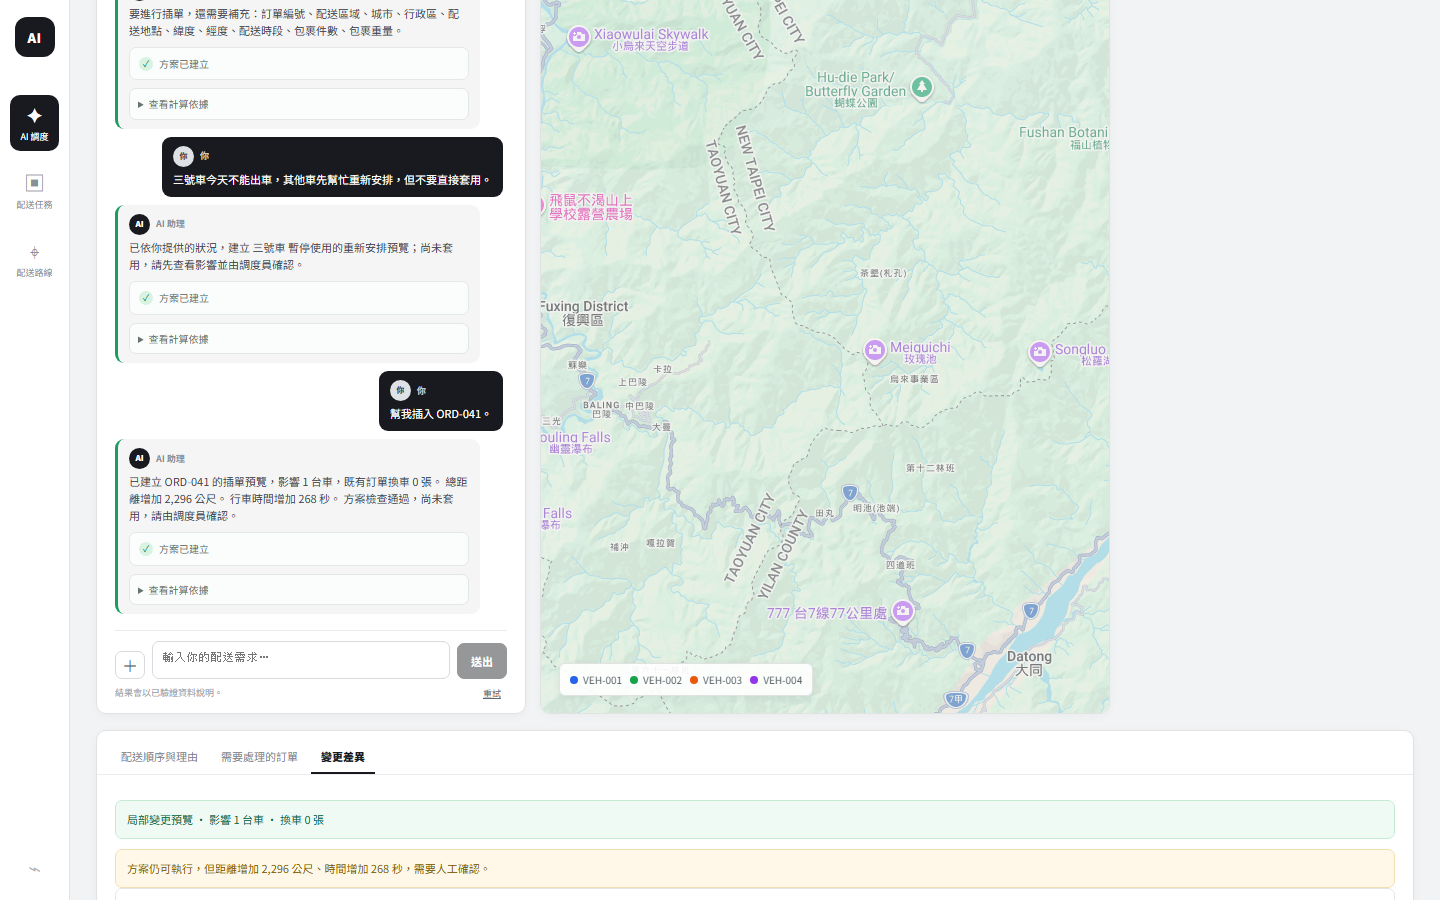
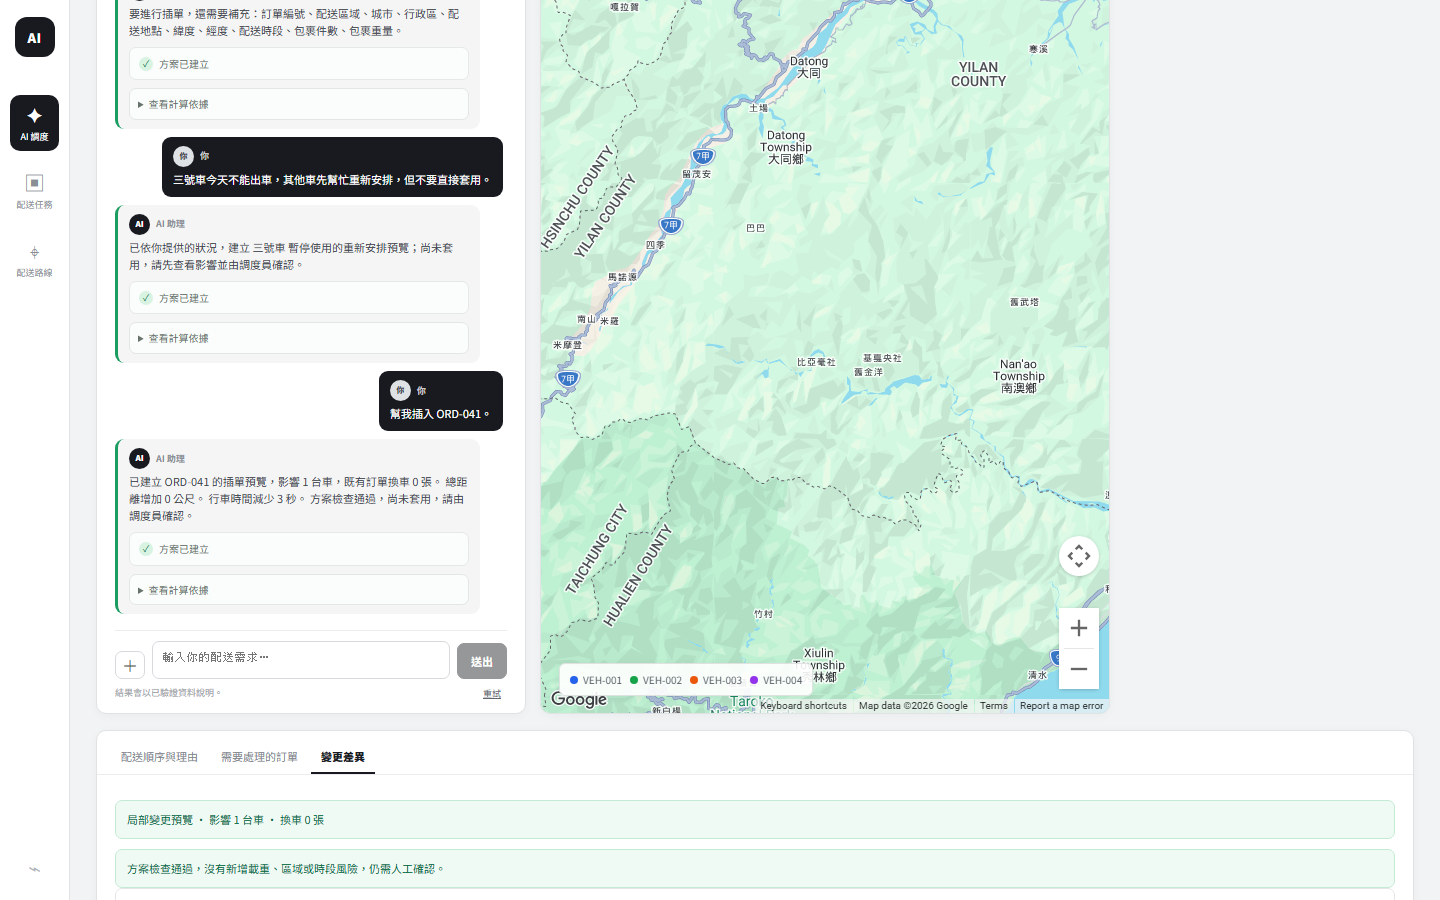
docs: record stable urgent-order public acceptance

diff --git a/docs/project-status.md b/docs/project-status.md
@@ -92,7 +92,7 @@
 - 從 Render 公開空白首頁以單一 Chromium 會話完成完整線性 Demo，涵蓋 Excel、40／40、4／4、Google 道路地圖、Agent 工具證據、車輛事件、真實拖拉換車、取消、ORD-041、人工確認、三策略、延遲與版本；結果 `1 passed`，正式派車請求 `0`。
 - 公開 Agent 現場題目均實際呼叫 `/api/v1/agent/chat`；重要問題逐題驗證 `RunResult` 與預期 strict tool。Prompt injection 收到明確 `PROMPT_INJECTION_BLOCKED`，沒有未處理 Console／page error。
 - 視覺稽核發現車輛停用與延遲回答可能顯示 JSON／英文內部欄位；已 regression-first 修正為繁體中文白話摘要，並讓 ORD-041 回答直接顯示受影響車輛、換車數、距離、時間與方案檢查。
-- Backend 全量 `218 passed、28 skipped`；112 案例 corpus 實際 `115 passed`；24 個 Live Runner `24 passed`；Ruff／mypy 通過。
+- Backend 全量 `219 passed、28 skipped`；112 案例 corpus 實際 `115 passed`；24 個 Live Runner `24 passed`；Ruff／mypy 通過。
 - Frontend TypeScript、ESLint、Vitest `20 passed`、production build 通過；本機 Playwright core `2 passed`、隨機資料／純附件 `2 passed`，公開線性 E2E `1 passed`。
 - Secret scan：高信心 pattern `0`、追蹤敏感路徑 `0`、GitHub Actions `0`；`.env` 與 `frontend/.env.local` 均被 Git 排除。
 
@@ -194,10 +194,10 @@
 
 ## LAST VALIDATION
 
-- 2026-09-06 Commit `550f73678f8772a9d1f96c03cd4d66a2870f3664` 公開 Render 線性 E2E：`1 passed`（4.6 分鐘）；同一瀏覽器會話由空白首頁走完整流程，15 張 1440×900 截圖存於 `docs/screenshots/public-final/`，未處理 Console／page error `0`，正式派車 requests `0`。
-- 公開正式方案：40／40 張、4／4 台、365 kg、Google 即時 Matrix→OR-Tools、方案檢查通過；本次畫面載重為 VEH-001 `106/120 kg`、VEH-002 `93/100 kg`、VEH-003 `160/160 kg`、VEH-004 `6/110 kg`。
-- 公開 ORD-041：40→41 張、365→367 kg、影響 1 台車、既有訂單換車 0 張、距離 `+2,296 m`、時間 `+268 s`、方案檢查通過；人工確認後建立新版本。
-- 最新本機：Backend `218 passed、28 skipped`；deterministic corpus `115 passed`；Live Runner `24 passed`；Ruff、mypy、TypeScript、ESLint、Vitest `20 passed`、Vite build 均通過。
+- 2026-09-06 Commit `7769a977e0894445c4a1551e900a235c09eb8c0b` 公開 Render 線性 E2E：`1 passed`（5.1 分鐘）；同一瀏覽器會話由空白首頁走完整流程，15 張 1440×900 截圖存於 `docs/screenshots/public-final/`，未處理 Console／page error `0`，正式派車 requests `0`。
+- 公開正式方案：40／40 張、4／4 台、365 kg、Google 即時 Matrix→OR-Tools、方案檢查通過；本次畫面載重為 VEH-001 `100/120 kg`、VEH-002 `99/100 kg`、VEH-003 `160/160 kg`、VEH-004 `6/110 kg`。
+- 公開 ORD-041：40→41 張、365→367 kg、影響 1 台車、既有訂單換車 0 張、距離 `+0 m`、服務時間 `+180 s`、方案檢查通過；人工確認後建立新版本。固定案例與既有合成站點同位置，以避免即時交通變化迫使全面重排；任意結構化插單仍使用輸入位置。
+- 最新本機：Backend `219 passed、28 skipped`；deterministic corpus `115 passed`；Live Runner `24 passed`；Ruff、mypy、TypeScript、ESLint、Vitest `20 passed`、Vite build 均通過。
 - Playwright：基礎回歸 `2 passed`；固定 seed 隨機資料／純附件 `2 passed`（明確 `SIMULATED`）；公開完整 Google／OpenAI 流程 `1 passed`。本機舊 Live gate 因 Server Key 僅允許 Render 而分類 `API_KEY_RESTRICTED`，不影響已通過的公開 Live 驗收。
 
 - 2026-09-06 本機最終閘門：`pytest 216 passed、28 skipped`；28 個 skipped 全是明確 opt-in 外部 gates，其中 24 個 OpenAI Runner corpus 已另行以 Live 模式得到 `24 passed`。

diff --git a/docs/validation-report.md b/docs/validation-report.md
@@ -9,7 +9,7 @@
 | Agent 建立方案語意 | 真實 `gpt-5-mini` `Runner.run` 對「請匯入這份訂單並建立今天的配送方案」選擇 `plan_dispatch`，不再誤選 `request_missing_fields` | `LOCAL LIVE PASS` |
 | Agent 語料 | `tests/fixtures/agent_dialogue_cases.json` 112 筆；測試檔共 `115 passed`（112 cases＋3 個完整性檢查） | `MOCK PASS` |
 | OpenAI Runner 語料 | `RUN_LIVE_AGENT_CORPUS=1`：24 筆代表案例全部實際進入 `Runner.run` | `24 passed`／`LOCAL LIVE PASS` |
-| Backend 全量 | `pytest -q --basetemp=.tmp/pytest-final -p no:cacheprovider` | `218 passed、28 skipped` |
+| Backend 全量 | `pytest -q --basetemp=.tmp/pytest-final-rerun -p no:cacheprovider` | `219 passed、28 skipped` |
 | Python 品質 | `ruff check src tests scripts`、`mypy src`、`git diff --check` | `PASS` |
 | Frontend 品質 | TypeScript、ESLint、Vitest 6 files／20 tests、Vite production build | `PASS` |
 | Browser regression | keyless core `2 passed`；第二組隨機資料與純附件 `2 passed`；公開完整線性 E2E `1 passed` | `PASS` |
@@ -35,12 +35,12 @@
 | 地圖 | Google Maps JavaScript API 實際顯示道路底圖、四車路線與站點；可切換單車／全部 | `PUBLIC LIVE PASS` |
 | Agent 現場題 | 公開 `/api/v1/agent/chat` 回應至少 12 次；要求工具的題目逐題斷言 `RunResult` 及 tool evidence | `PUBLIC LIVE PASS` |
 | 拖拉換車 | 瀏覽器原生 DragEvent 將 `ORD-002` 放到 `VEH-004`，收到 `/reassign/preview` 200，顯示距離／時間差異；取消後原版本不變 | `PUBLIC LIVE PASS` |
-| ORD-041 | Preview 為 40→41、365→367 kg、影響 1 台車、既有訂單換車 0、距離 +2,296 m、時間 +268 s；方案檢查通過 | `PUBLIC LIVE PASS` |
+| ORD-041 | 固定合成案例與既有 `ORD-001` 站點同位置；Preview 為 40→41、365→367 kg、影響 1 台車、既有訂單換車 0、距離 +0 m、服務時間 +180 s；方案檢查通過 | `PUBLIC LIVE PASS` |
 | 人工確認／版本 | 使用者按下套用後建立確認版本；可顯示版本列表，沒有正式派車 | `PUBLIC LIVE PASS` |
 | 三策略／延遲 | 同一 Google 資料比較最快、最平均、最穩定；+20 分鐘風險預覽可見 | `PUBLIC LIVE PASS` |
 | 安全 | Prompt injection 得到 `PROMPT_INJECTION_BLOCKED`；未處理 Console／page error 0；正式派車 requests 0 | `PUBLIC LIVE PASS` |
 
-Commit `550f73678f8772a9d1f96c03cd4d66a2870f3664` 部署後，單次完整公開 Playwright 結果為 `1 passed`（4.6 分鐘）。15 張 1440×900 截圖位於 `docs/screenshots/public-final/`。公開方案畫面實際載重為 VEH-001 `106/120 kg`、VEH-002 `93/100 kg`、VEH-003 `160/160 kg`、VEH-004 `6/110 kg`。三策略實測為：最快 `242,911 m／483 分鐘`、最平均 `421,013 m／707 分鐘／載重差 19 kg`、最穩定 `289,111 m／527 分鐘／載重差 29 kg`。前端白話化回歸涵蓋車輛停用、插單差異、延遲風險與未知 JSON，確保主對話不顯示內部欄位、英文風險碼或 Raw JSON。
+Commit `7769a977e0894445c4a1551e900a235c09eb8c0b` 部署後，單次完整公開 Playwright 結果為 `1 passed`（5.1 分鐘）。15 張 1440×900 截圖位於 `docs/screenshots/public-final/`。公開方案畫面實際載重為 VEH-001 `100/120 kg`、VEH-002 `99/100 kg`、VEH-003 `160/160 kg`、VEH-004 `6/110 kg`。三策略當次實測為：最快 `237,811 m／446 分鐘`、最平均 `427,420 m／710 分鐘／載重差 18 kg`、最穩定 `274,187 m／493 分鐘／載重差 15 kg`；名稱表示各自求解的主要目標，不宣稱其他次要指標必然排序。前端白話化回歸涵蓋車輛停用、插單差異、延遲風險與未知 JSON，確保主對話不顯示內部欄位、英文風險碼或 Raw JSON。
 
 ## 2026-09-05 最新公開驗證（Commit `cb53615c25b0732d4243bd8470e3c9dc1356dc26`）
 

diff --git a/CHANGELOG.md b/CHANGELOG.md
@@ -4,8 +4,9 @@
 
 - 公開 Render 以同一個 Chromium 會話從空白首頁完整跑完 Excel、40／40、4／4、Google 地圖、Agent、拖拉換車、取消、ORD-041、人工確認、三策略、延遲與版本，結果 `1 passed`；未處理錯誤與正式派車請求皆為 0。
 - 視覺驗收發現車輛停用與延遲回答仍可能顯示 JSON／英文內部欄位；已 regression-first 改為證據導向的繁體中文摘要，並補強 ORD-041 差異摘要與未知 JSON fail-closed 顯示。
-- 最新品質結果：Backend `218 passed、28 skipped`；112-case corpus `115 passed`；OpenAI Live Runner `24 passed`；Frontend Vitest `20 passed`，TypeScript、ESLint、Vite build、Ruff、mypy 與 secret scan 均通過。
+- 最新品質結果：Backend `219 passed、28 skipped`；112-case corpus `115 passed`；OpenAI Live Runner `24 passed`；Frontend Vitest `20 passed`，TypeScript、ESLint、Vite build、Ruff、mypy 與 secret scan 均通過。
 - Commit `550f736` 已在 Render 顯示 Live；公開網站再由空白首頁完整演練一次，結果 `1 passed`（4.6 分鐘），Console／page error 與正式派車請求皆為 0。
+- 修正固定 ORD-041 在不同即時交通結果下偶爾退化為全面重排：示範單改與既有合成站點同位置，並新增 `MINIMAL_CHANGE`、單車影響與零既有訂單換車回歸斷言；Render `7769a97` 公開完整流程 `1 passed`（5.1 分鐘）。
 - regression-first 修正空白首頁把「尚未使用」誤顯示為 Google 路線故障；Google Maps 的「已連線」只在地圖實際載入後成立，TDX 依本輪範圍顯示「本版本未啟用」。
 - 修正有 validated dataset 的自然語言「請匯入這份訂單並建立今天的配送方案」被 Agent 誤選為臨時插單缺欄流程；真實 `gpt-5-mini` `Runner.run` 已選用 strict `plan_dispatch`。
 - 車輛清單可展開所有訂單，保留真正的 drag-and-drop 與「移至其他車輛」無障礙替代操作；不完整 Preview 現在會停用「套用變更」並顯示白話原因。
